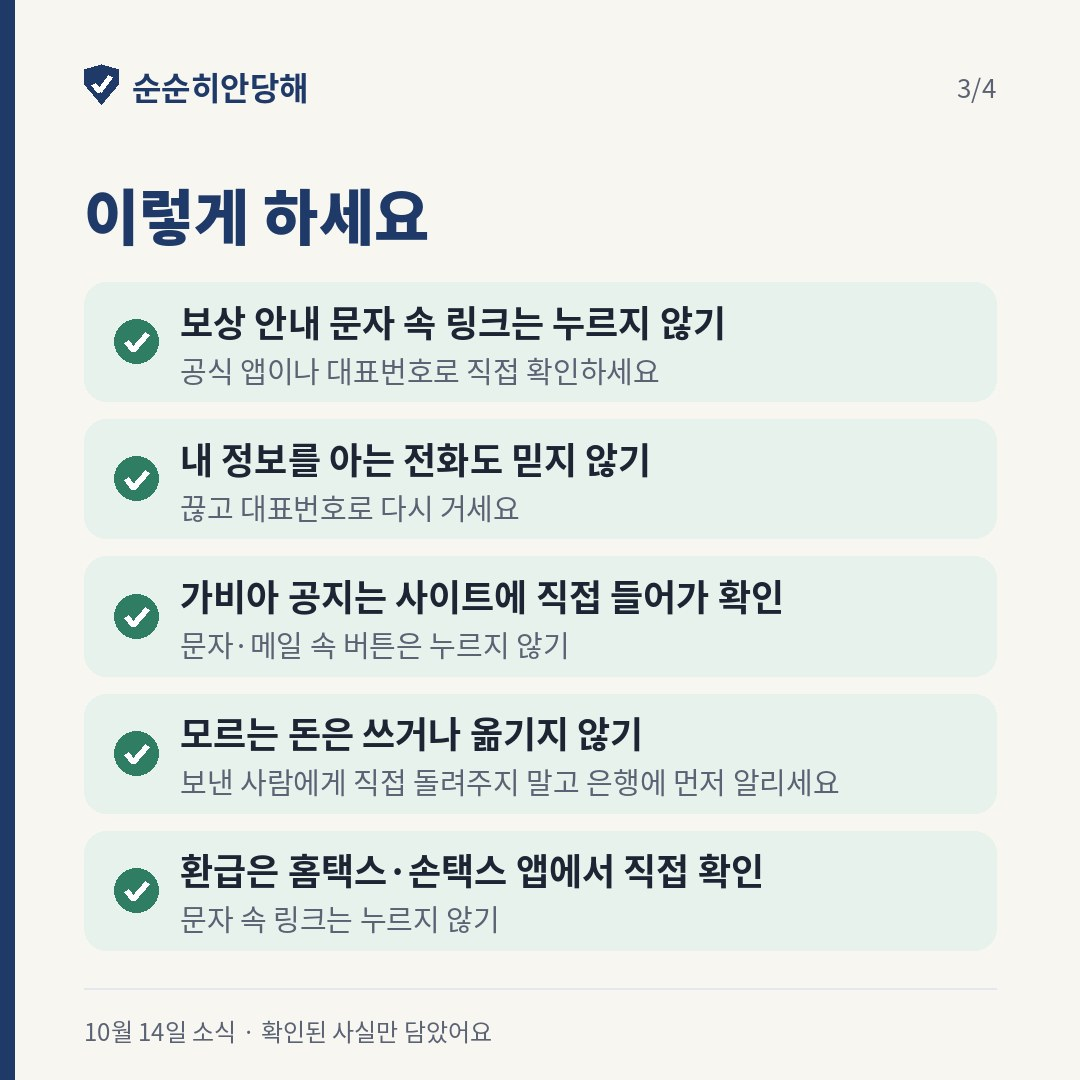
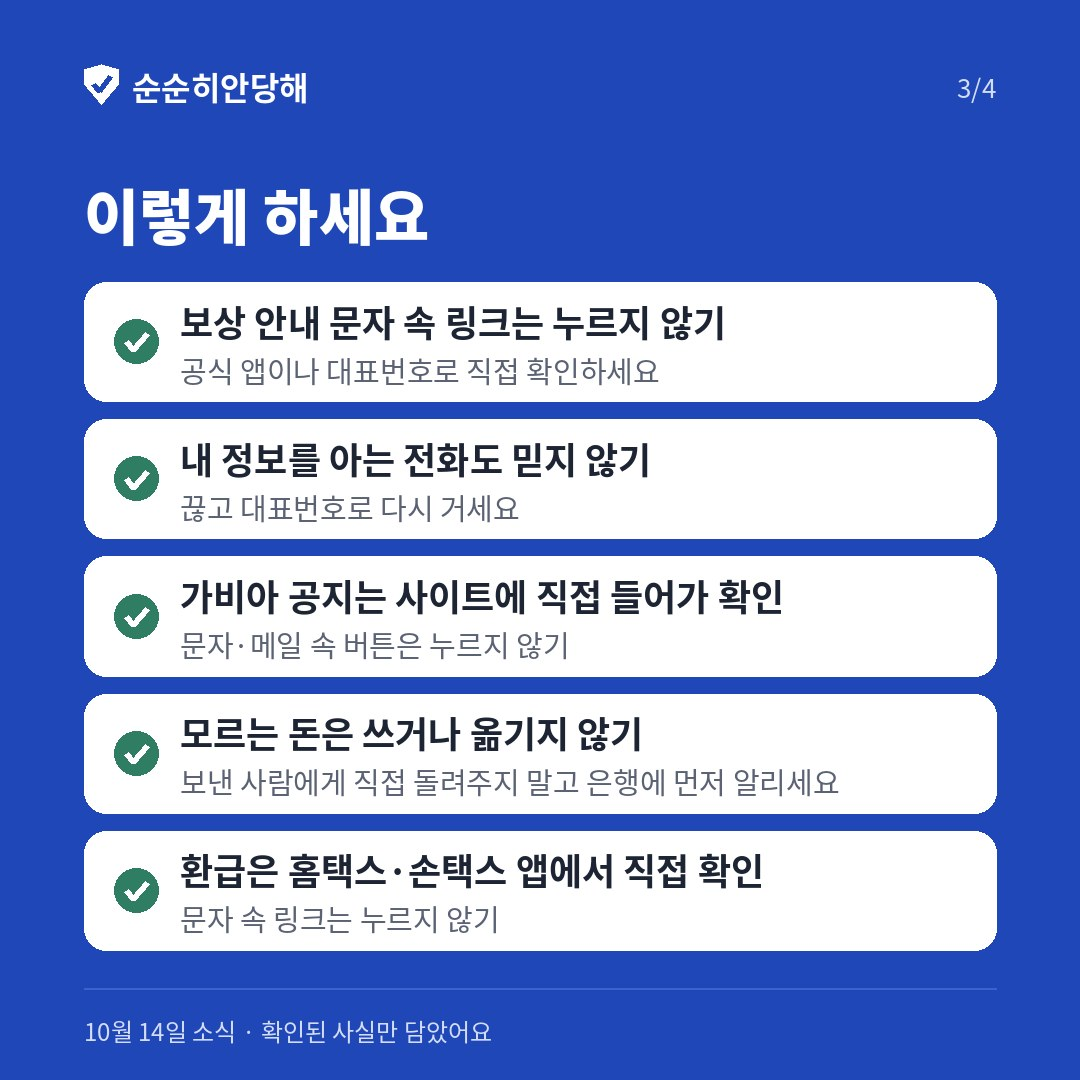
andanghae: blue channel cards + review page with save/copy buttons
Claude-Session: https://claude.ai/code/session_01NX3bhPew77XyQvSs8879SZ

diff --git a/andanghae/channel/adh-channel-20261014.html b/andanghae/channel/adh-channel-20261014.html
@@ -1,0 +1,54 @@
+<!doctype html>
+<html lang="ko"><head><meta charset="utf-8">
+<meta name="viewport" content="width=device-width,initial-scale=1">
+<meta name="robots" content="noindex,nofollow">
+<title>채널 카드 소식 10월 14일</title>
+<style>
+:root{--blue:#1f47b8;--ink:#1d2433;--sub:#5a6274;--line:#e4e7ed;--bg:#f4f6fb}
+*{box-sizing:border-box}
+body{margin:0;background:var(--bg);color:var(--ink);font-family:-apple-system,"Noto Sans KR","Apple SD Gothic Neo",sans-serif;line-height:1.6}
+header{background:var(--blue);color:#fff;padding:18px 16px 20px}
+header small{opacity:.85}
+header h1{margin:4px 0 0;font-size:22px}
+main{max-width:560px;margin:0 auto;padding:16px}
+.box{background:#fff;border:1px solid var(--line);border-radius:14px;padding:14px;margin-bottom:14px}
+.steps{font-size:15px;margin:0;padding-left:20px}
+.grid{display:grid;grid-template-columns:1fr 1fr;gap:10px}
+.card img{width:100%;border-radius:10px;display:block;border:1px solid var(--line)}
+.btn{display:block;width:100%;margin-top:6px;padding:11px 0;border:0;border-radius:10px;background:var(--blue);color:#fff;font-size:15px;font-weight:700;text-align:center;text-decoration:none;cursor:pointer}
+.btn.light{background:#e8edfa;color:var(--blue)}
+h2{font-size:16px;margin:0 0 8px}
+.txt{white-space:pre-wrap;background:#f8f6f1;border-radius:10px;padding:12px;font-size:15px}
+.done{background:#2f7d62!important;color:#fff!important}
+.note{font-size:13px;color:var(--sub)}
+</style></head><body>
+<header><small>순순히안당해 채널 카드 소식 · 10월 14일</small><h1>이번 주 사기 소식 5가지</h1></header>
+<main>
+<div class="box"><ol class="steps">
+<li>카드 4장 [저장] 누르기 (또는 맨 아래 [4장 모두 저장])</li>
+<li>카카오톡 채널 관리자 앱 → 소식 → 새 소식 작성</li>
+<li>사진 4장을 순서대로 넣고, 제목·문구 [복사] → 붙여 넣기</li>
+<li>'링크 추가'는 쓰지 않고 게시</li></ol></div>
+<div class="grid"><div class="card"><img src="adh-channel-20261014-1.jpg" alt="카드 1"><a class="btn" href="adh-channel-20261014-1.jpg" download="adh-channel-20261014-1.jpg">1번 저장</a></div><div class="card"><img src="adh-channel-20261014-2.jpg" alt="카드 2"><a class="btn" href="adh-channel-20261014-2.jpg" download="adh-channel-20261014-2.jpg">2번 저장</a></div><div class="card"><img src="adh-channel-20261014-3.jpg" alt="카드 3"><a class="btn" href="adh-channel-20261014-3.jpg" download="adh-channel-20261014-3.jpg">3번 저장</a></div><div class="card"><img src="adh-channel-20261014-4.jpg" alt="카드 4"><a class="btn" href="adh-channel-20261014-4.jpg" download="adh-channel-20261014-4.jpg">4번 저장</a></div></div>
+<button class="btn light" style="margin:10px 0 14px" onclick="saveAll()">4장 모두 저장</button>
+<div class="box"><h2>제목</h2><div class="txt" id="t">이번 주 사기 소식 5가지</div>
+<button class="btn" onclick="cp('t',this)">제목 복사</button></div>
+<div class="box"><h2>문구</h2><div class="txt" id="b">이번 주는 정보유출 소식이 이어졌어요. 알아 둘 5가지를 카드로 모았어요.
+
+▪ 보상 안내 문자 속 링크는 누르지 마세요.
+
+▪ 내 정보를 아는 전화도 끊고 대표번호로 다시 거세요.
+
+▪ 모르는 돈이 들어오면 쓰거나 옮기지 말고 은행에 먼저 알리세요.
+
+이 소식에는 일부러 링크를 넣지 않았어요. 자세한 내용은 검색창에 &#x27;순순히안당해&#x27;를 직접 쳐서 들어와 보세요.</div>
+<button class="btn" onclick="cp('b',this)">문구 복사</button></div>
+<p class="note">이 화면은 운영자 확인용이에요(검색에 나오지 않아요). 고칠 곳이 있으면 Claude 대화창에 "이번 주 카드 2장째 이렇게 바꿔줘"처럼 말하면 돼요. 올리지 않아도 괜찮아요.</p>
+</main>
+<script>
+function cp(id,btn){var s=document.getElementById(id).innerText;
+ var ok=function(){var o=btn.textContent;btn.textContent='복사됐어요';btn.classList.add('done');setTimeout(function(){btn.textContent=o;btn.classList.remove('done')},1800)};
+ if(navigator.clipboard&&navigator.clipboard.writeText){navigator.clipboard.writeText(s).then(ok,function(){fb(s);ok()})}else{fb(s);ok()}}
+function fb(s){var a=document.createElement('textarea');a.value=s;document.body.appendChild(a);a.select();try{document.execCommand('copy')}catch(e){}a.remove()}
+function saveAll(){var l=document.querySelectorAll('a[download]');l.forEach(function(a,i){setTimeout(function(){a.click()},i*700)})}
+</script></body></html>

diff --git a/andanghae/tools/make_channel_cards.py b/andanghae/tools/make_channel_cards.py
@@ -12,7 +12,10 @@ import sys
 from PIL import Image, ImageDraw, ImageFont
 
 W = H = 1080
-BG = "#f8f6f1"
+BG = "#1f47b8"   # 사이트 파란색
+ON = "#ffffff"   # 파란 바탕 위 글자
+ON_SUB = "#d4ddf7"
+PILL = "#3c62cc"
 CARD = "#ffffff"
 NAVY = "#1f3a68"
 INK = "#1d2433"
@@ -50,7 +53,7 @@ def shield(d, x, y, h, color):
            (x + w / 2, y + h), (x, y + h * .5)]
     d.polygon(pts, fill=color)
     d.line([(x + w * .27, y + h * .5), (x + w * .45, y + h * .68), (x + w * .76, y + h * .32)],
-           fill="white", width=max(3, int(h * .13)), joint="curve")
+           fill=BG if color == ON else "white", width=max(3, int(h * .13)), joint="curve")
 
 
 def check(d, cx, cy, r):
@@ -62,15 +65,14 @@ def check(d, cx, cy, r):
 def base(page, date):
     img = Image.new("RGB", (W, H), BG)
     d = ImageDraw.Draw(img)
-    d.rectangle([0, 0, 14, H], fill=NAVY)
     # 브랜드 줄
     y = 64
-    shield(d, PAD, y, 40, NAVY)
-    d.text((PAD + 48, y + 22), "순순히안당해", font=f(32, "Bold"), fill=NAVY, anchor="lm")
-    d.text((W - PAD, y + 22), f"{page}/4", font=f(26), fill=SUB, anchor="rm")
+    shield(d, PAD, y, 40, ON)
+    d.text((PAD + 48, y + 22), "순순히안당해", font=f(32, "Bold"), fill=ON, anchor="lm")
+    d.text((W - PAD, y + 22), f"{page}/4", font=f(26), fill=ON_SUB, anchor="rm")
     # 아래 띠
-    d.line([(PAD, H - 92), (W - PAD, H - 92)], fill=LINE, width=2)
-    d.text((PAD, H - 50), f"{date} 소식 · 확인된 사실만 담았어요", font=f(24), fill=SUB, anchor="lm")
+    d.line([(PAD, H - 92), (W - PAD, H - 92)], fill=PILL, width=2)
+    d.text((PAD, H - 50), f"{date} 소식 · 확인된 사실만 담았어요", font=f(24), fill=ON_SUB, anchor="lm")
     return img, d
 
 
@@ -82,15 +84,15 @@ def cover(s, date):
     block = 80 + len(tl) * 112 + 30 + len(sl) * 58
     y = 130 + (H - 92 - 130 - block) / 2 - 20
     d.rounded_rectangle([PAD, y, PAD + d.textlength(c["kicker"], font=f(36, "Bold")) + 44, y + 58],
-                        radius=29, fill=TEAL_BG)
-    d.text((PAD + 22, y + 29), c["kicker"], font=f(36, "Bold"), fill=TEAL, anchor="lm")
+                        radius=29, fill=PILL)
+    d.text((PAD + 22, y + 29), c["kicker"], font=f(36, "Bold"), fill=ON, anchor="lm")
     y += 92
     for ln in tl:
-        d.text((PAD, y), ln, font=f(86, "Black"), fill=INK)
+        d.text((PAD, y), ln, font=f(86, "Black"), fill=ON)
         y += 112
     y += 30
     for ln in sl:
-        d.text((PAD, y), ln, font=f(38), fill=SUB)
+        d.text((PAD, y), ln, font=f(38), fill=ON_SUB)
         y += 58
     return img
 
@@ -98,7 +100,7 @@ def cover(s, date):
 def items_card(page, head, items, date, kind):
     img, d = base(page, date)
     y = 170
-    d.text((PAD, y), head, font=f(60, "Black"), fill=NAVY)
+    d.text((PAD, y), head, font=f(60, "Black"), fill=ON)
     y += 112
     n = len(items)
     gap = 18
@@ -106,13 +108,13 @@ def items_card(page, head, items, date, kind):
     for i, (a, b) in enumerate(items):
         top = y + i * (box_h + gap)
         d.rounded_rectangle([PAD, top, W - PAD, top + box_h], radius=22,
-                            fill=TEAL_BG if kind == "do" else CARD, outline=None if kind == "do" else LINE, width=2)
+                            fill=CARD)
         tx = PAD + 34
         if kind == "do":
             check(d, PAD + 52, top + box_h / 2, 22)
             tx = PAD + 96
         else:
-            d.text((PAD + 34, top + box_h / 2), str(i + 1), font=f(40, "Black"), fill=TEAL, anchor="lm")
+            d.text((PAD + 34, top + box_h / 2), str(i + 1), font=f(40, "Black"), fill=BG, anchor="lm")
             tx = PAD + 90
         maxw = W - PAD - 30 - tx
         fa = f(36, "Bold")
@@ -137,23 +139,23 @@ def end_card(date):
     img, d = base(4, date)
     y = 230
     for ln in ["이 소식에는", "링크가 없어요"]:
-        d.text((PAD, y), ln, font=f(86, "Black"), fill=INK)
+        d.text((PAD, y), ln, font=f(86, "Black"), fill=ON)
         y += 112
     y += 34
     for ln in ["문자·메시지 속 링크는 누르지 않는 게 기본이에요.", "그래서 저희도 링크를 보내지 않아요."]:
-        d.text((PAD, y), ln, font=f(36), fill=SUB)
+        d.text((PAD, y), ln, font=f(36), fill=ON_SUB)
         y += 56
     y += 50
     # 검색창 그림 (주소 대신 이름)
-    d.rounded_rectangle([PAD, y, W - PAD, y + 110], radius=55, fill=CARD, outline=NAVY, width=4)
+    d.rounded_rectangle([PAD, y, W - PAD, y + 110], radius=55, fill=CARD)
     cx, cy = PAD + 62, y + 55
-    d.ellipse([cx - 18, cy - 18, cx + 14, cy + 14], outline=NAVY, width=5)
-    d.line([(cx + 10, cy + 10), (cx + 26, cy + 26)], fill=NAVY, width=6)
+    d.ellipse([cx - 18, cy - 18, cx + 14, cy + 14], outline=BG, width=5)
+    d.line([(cx + 10, cy + 10), (cx + 26, cy + 26)], fill=BG, width=6)
     d.text((PAD + 110, cy), "순순히안당해", font=f(44, "Bold"), fill=INK, anchor="lm")
     y += 150
-    d.text((PAD, y), "검색창에 직접 쳐서 들어오세요.", font=f(36, "Bold"), fill=TEAL)
+    d.text((PAD, y), "검색창에 직접 쳐서 들어오세요.", font=f(36, "Bold"), fill=ON)
     y += 56
-    d.text((PAD, y), "자세한 내용도, 수상한 문자 점검도 거기 있어요.", font=f(32), fill=SUB)
+    d.text((PAD, y), "자세한 내용도, 수상한 문자 점검도 거기 있어요.", font=f(32), fill=ON_SUB)
     return img
 
 

diff --git a/andanghae/tools/make_channel_page.py b/andanghae/tools/make_channel_page.py
@@ -1,0 +1,83 @@
+"""채널 카드 소식 확인 페이지(운영자용) 만들기.
+
+사용: python3 make_channel_page.py spec.json 출력폴더
+spec.json 의 prefix, date, post.title, post.body 를 읽어
+출력폴더/<prefix>.html 을 만든다. 같은 폴더에 <prefix>-1~4.jpg 가 있어야 한다.
+페이지 주소: https://jjprojj.github.io/blog-images/andanghae/channel/<prefix>.html
+카드마다 [저장] 버튼, 제목·문구마다 [복사] 버튼.
+"""
+import html
+import json
+import os
+import sys
+
+TPL = """<!doctype html>
+<html lang="ko"><head><meta charset="utf-8">
+<meta name="viewport" content="width=device-width,initial-scale=1">
+<meta name="robots" content="noindex,nofollow">
+<title>채널 카드 소식 {date}</title>
+<style>
+:root{{--blue:#1f47b8;--ink:#1d2433;--sub:#5a6274;--line:#e4e7ed;--bg:#f4f6fb}}
+*{{box-sizing:border-box}}
+body{{margin:0;background:var(--bg);color:var(--ink);font-family:-apple-system,"Noto Sans KR","Apple SD Gothic Neo",sans-serif;line-height:1.6}}
+header{{background:var(--blue);color:#fff;padding:18px 16px 20px}}
+header small{{opacity:.85}}
+header h1{{margin:4px 0 0;font-size:22px}}
+main{{max-width:560px;margin:0 auto;padding:16px}}
+.box{{background:#fff;border:1px solid var(--line);border-radius:14px;padding:14px;margin-bottom:14px}}
+.steps{{font-size:15px;margin:0;padding-left:20px}}
+.grid{{display:grid;grid-template-columns:1fr 1fr;gap:10px}}
+.card img{{width:100%;border-radius:10px;display:block;border:1px solid var(--line)}}
+.btn{{display:block;width:100%;margin-top:6px;padding:11px 0;border:0;border-radius:10px;background:var(--blue);color:#fff;font-size:15px;font-weight:700;text-align:center;text-decoration:none;cursor:pointer}}
+.btn.light{{background:#e8edfa;color:var(--blue)}}
+h2{{font-size:16px;margin:0 0 8px}}
+.txt{{white-space:pre-wrap;background:#f8f6f1;border-radius:10px;padding:12px;font-size:15px}}
+.done{{background:#2f7d62!important;color:#fff!important}}
+.note{{font-size:13px;color:var(--sub)}}
+</style></head><body>
+<header><small>순순히안당해 채널 카드 소식 · {date}</small><h1>{title}</h1></header>
+<main>
+<div class="box"><ol class="steps">
+<li>카드 4장 [저장] 누르기 (또는 맨 아래 [4장 모두 저장])</li>
+<li>카카오톡 채널 관리자 앱 → 소식 → 새 소식 작성</li>
+<li>사진 4장을 순서대로 넣고, 제목·문구 [복사] → 붙여 넣기</li>
+<li>'링크 추가'는 쓰지 않고 게시</li></ol></div>
+<div class="grid">{cards}</div>
+<button class="btn light" style="margin:10px 0 14px" onclick="saveAll()">4장 모두 저장</button>
+<div class="box"><h2>제목</h2><div class="txt" id="t">{title}</div>
+<button class="btn" onclick="cp('t',this)">제목 복사</button></div>
+<div class="box"><h2>문구</h2><div class="txt" id="b">{body}</div>
+<button class="btn" onclick="cp('b',this)">문구 복사</button></div>
+<p class="note">이 화면은 운영자 확인용이에요(검색에 나오지 않아요). 고칠 곳이 있으면 Claude 대화창에 "이번 주 카드 2장째 이렇게 바꿔줘"처럼 말하면 돼요. 올리지 않아도 괜찮아요.</p>
+</main>
+<script>
+function cp(id,btn){{var s=document.getElementById(id).innerText;
+ var ok=function(){{var o=btn.textContent;btn.textContent='복사됐어요';btn.classList.add('done');setTimeout(function(){{btn.textContent=o;btn.classList.remove('done')}},1800)}};
+ if(navigator.clipboard&&navigator.clipboard.writeText){{navigator.clipboard.writeText(s).then(ok,function(){{fb(s);ok()}})}}else{{fb(s);ok()}}}}
+function fb(s){{var a=document.createElement('textarea');a.value=s;document.body.appendChild(a);a.select();try{{document.execCommand('copy')}}catch(e){{}}a.remove()}}
+function saveAll(){{var l=document.querySelectorAll('a[download]');l.forEach(function(a,i){{setTimeout(function(){{a.click()}},i*700)}})}}
+</script></body></html>"""
+
+CARD = '<div class="card"><img src="{f}" alt="카드 {i}"><a class="btn" href="{f}" download="{f}">{i}번 저장</a></div>'
+
+
+def main(spec_path, out_dir):
+    s = json.load(open(spec_path, encoding="utf-8"))
+    p = s["prefix"]
+    cards = "".join(CARD.format(f=f"{p}-{i}.jpg", i=i) for i in range(1, 5))
+    for i in range(1, 5):
+        if not os.path.exists(os.path.join(out_dir, f"{p}-{i}.jpg")):
+            sys.exit(f"카드 {i}번 파일이 없습니다")
+    body = s["post"]["body"]
+    if "http" in body or "andanghae.kr" in body:
+        sys.exit("문구에 주소가 들어 있습니다")
+    page = TPL.format(date=html.escape(s["date"]), title=html.escape(s["post"]["title"]),
+                      body=html.escape(body), cards=cards)
+    out = os.path.join(out_dir, f"{p}.html")
+    open(out, "w", encoding="utf-8").write(page)
+    print(out)
+    print(f"https://jjprojj.github.io/blog-images/andanghae/channel/{p}.html")
+
+
+if __name__ == "__main__":
+    main(sys.argv[1], sys.argv[2])
